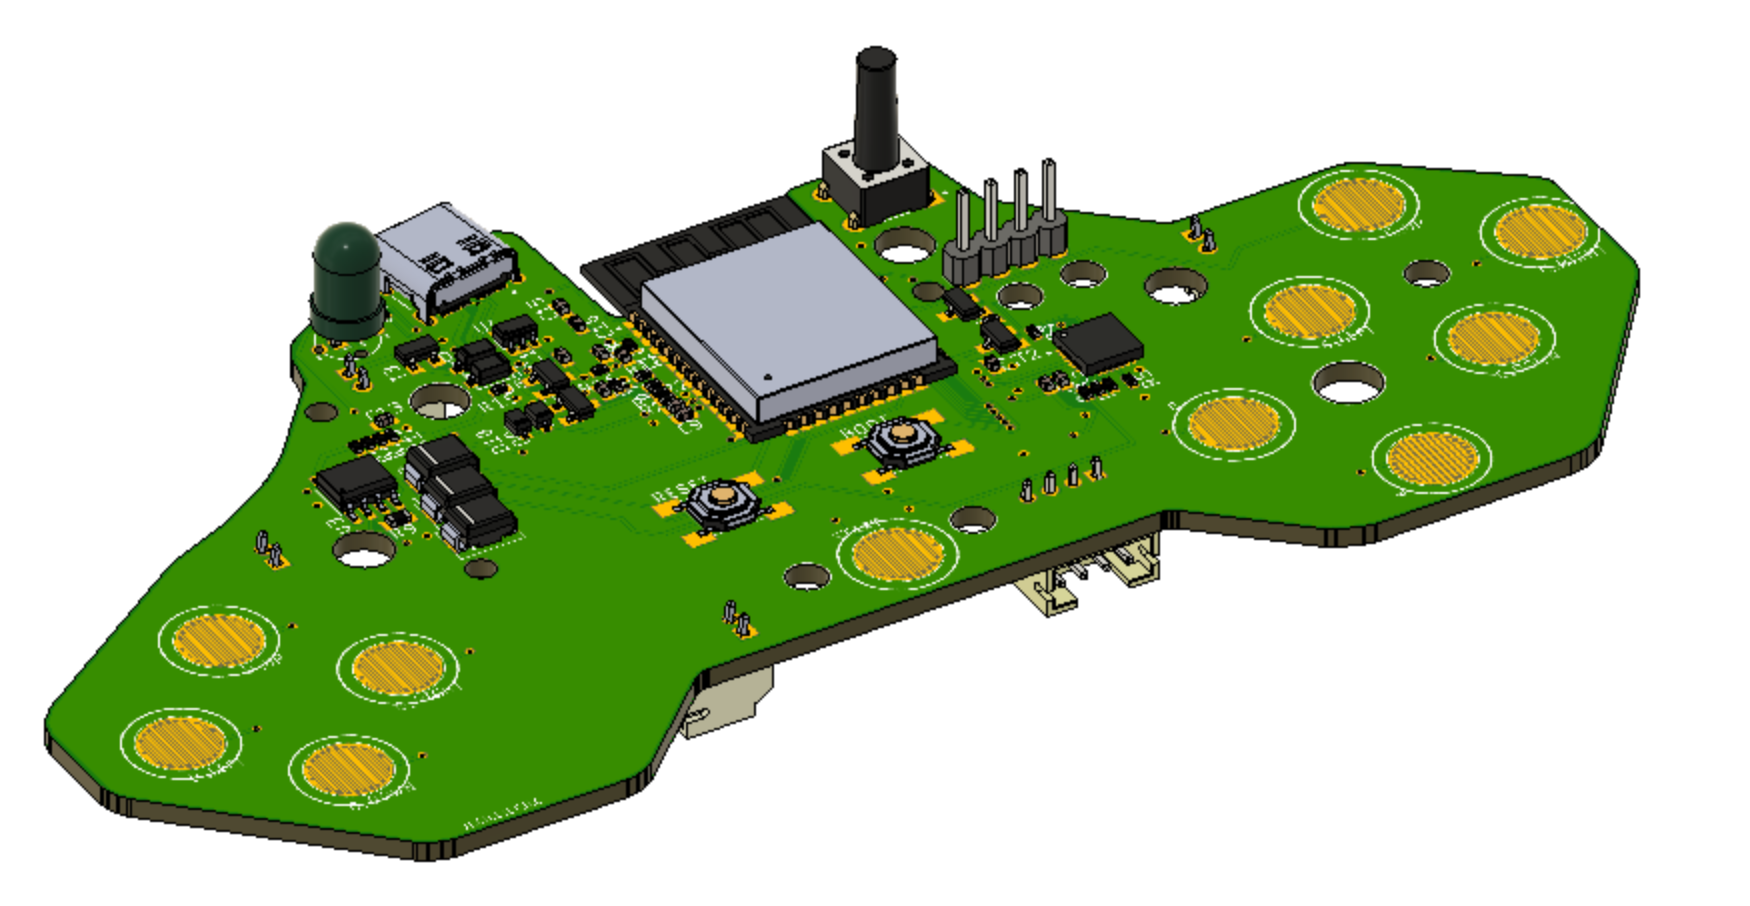
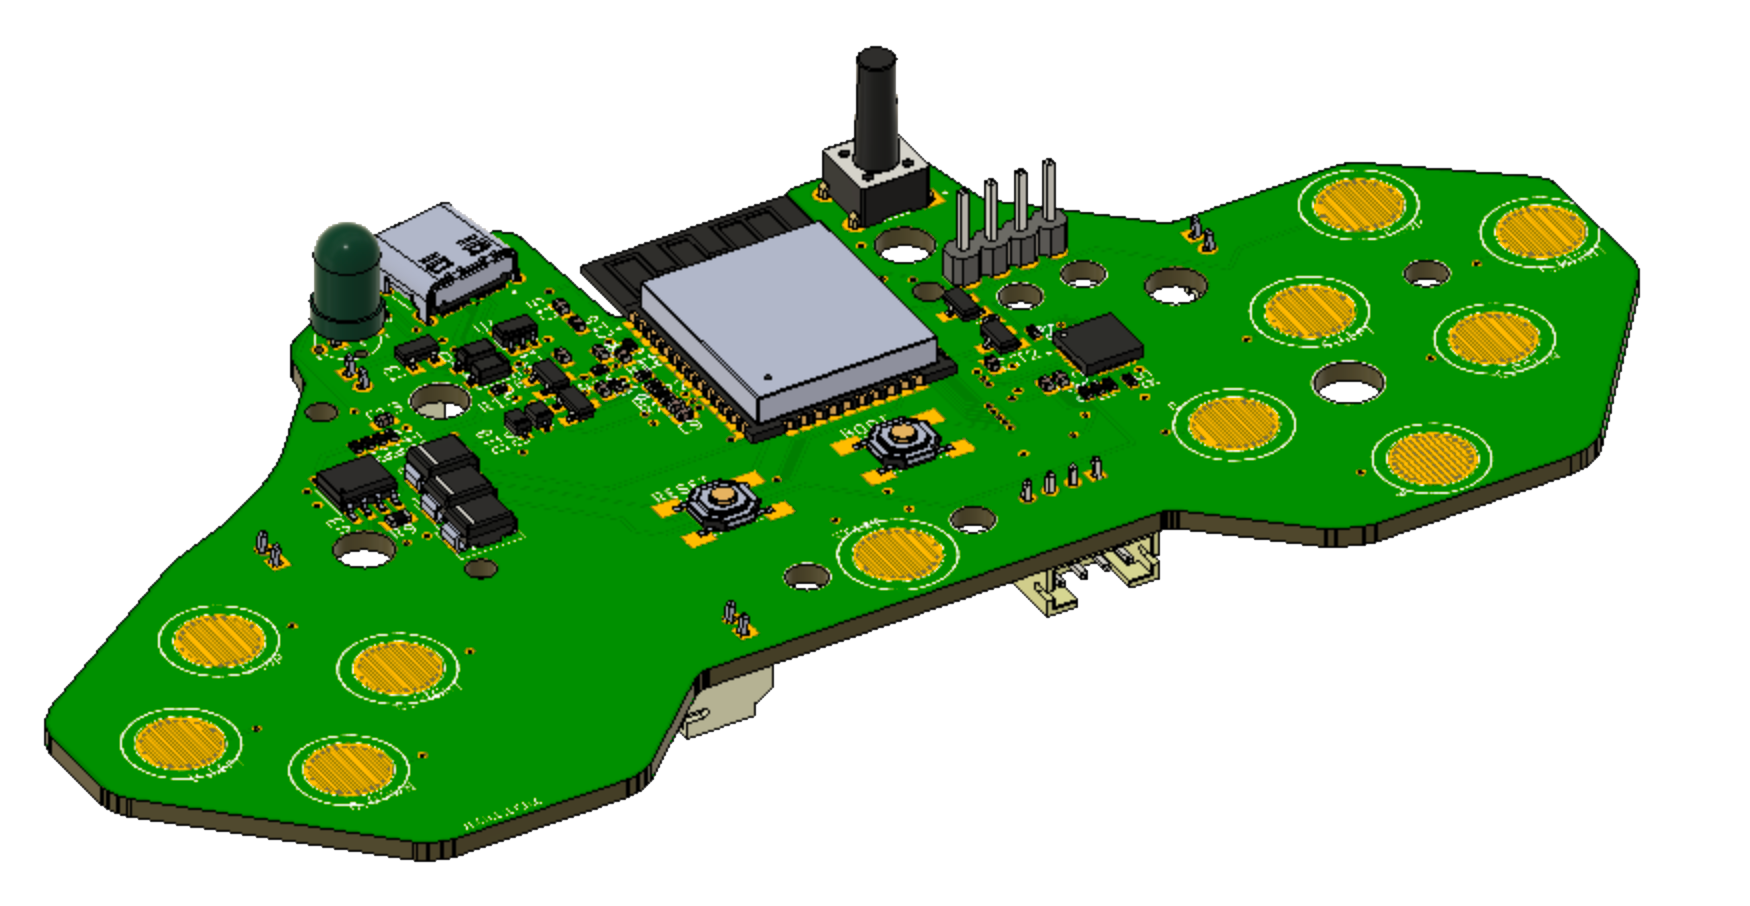
add board image

Changed region(s): [[0.0309, 0.1545, 0.9566, 0.9272]]

diff --git a/README.md b/README.md
@@ -1,3 +1,6 @@
 # esp32-n64
 
-Bluetooth HID adapter for cheap USB N64 controllers using ESP32.
+Bluetooth HID gamepad firmware for ESP32. Schematics & designs to fit a USB N64 controller shell.
+
+
+![pcb](assets/images/board.png)
